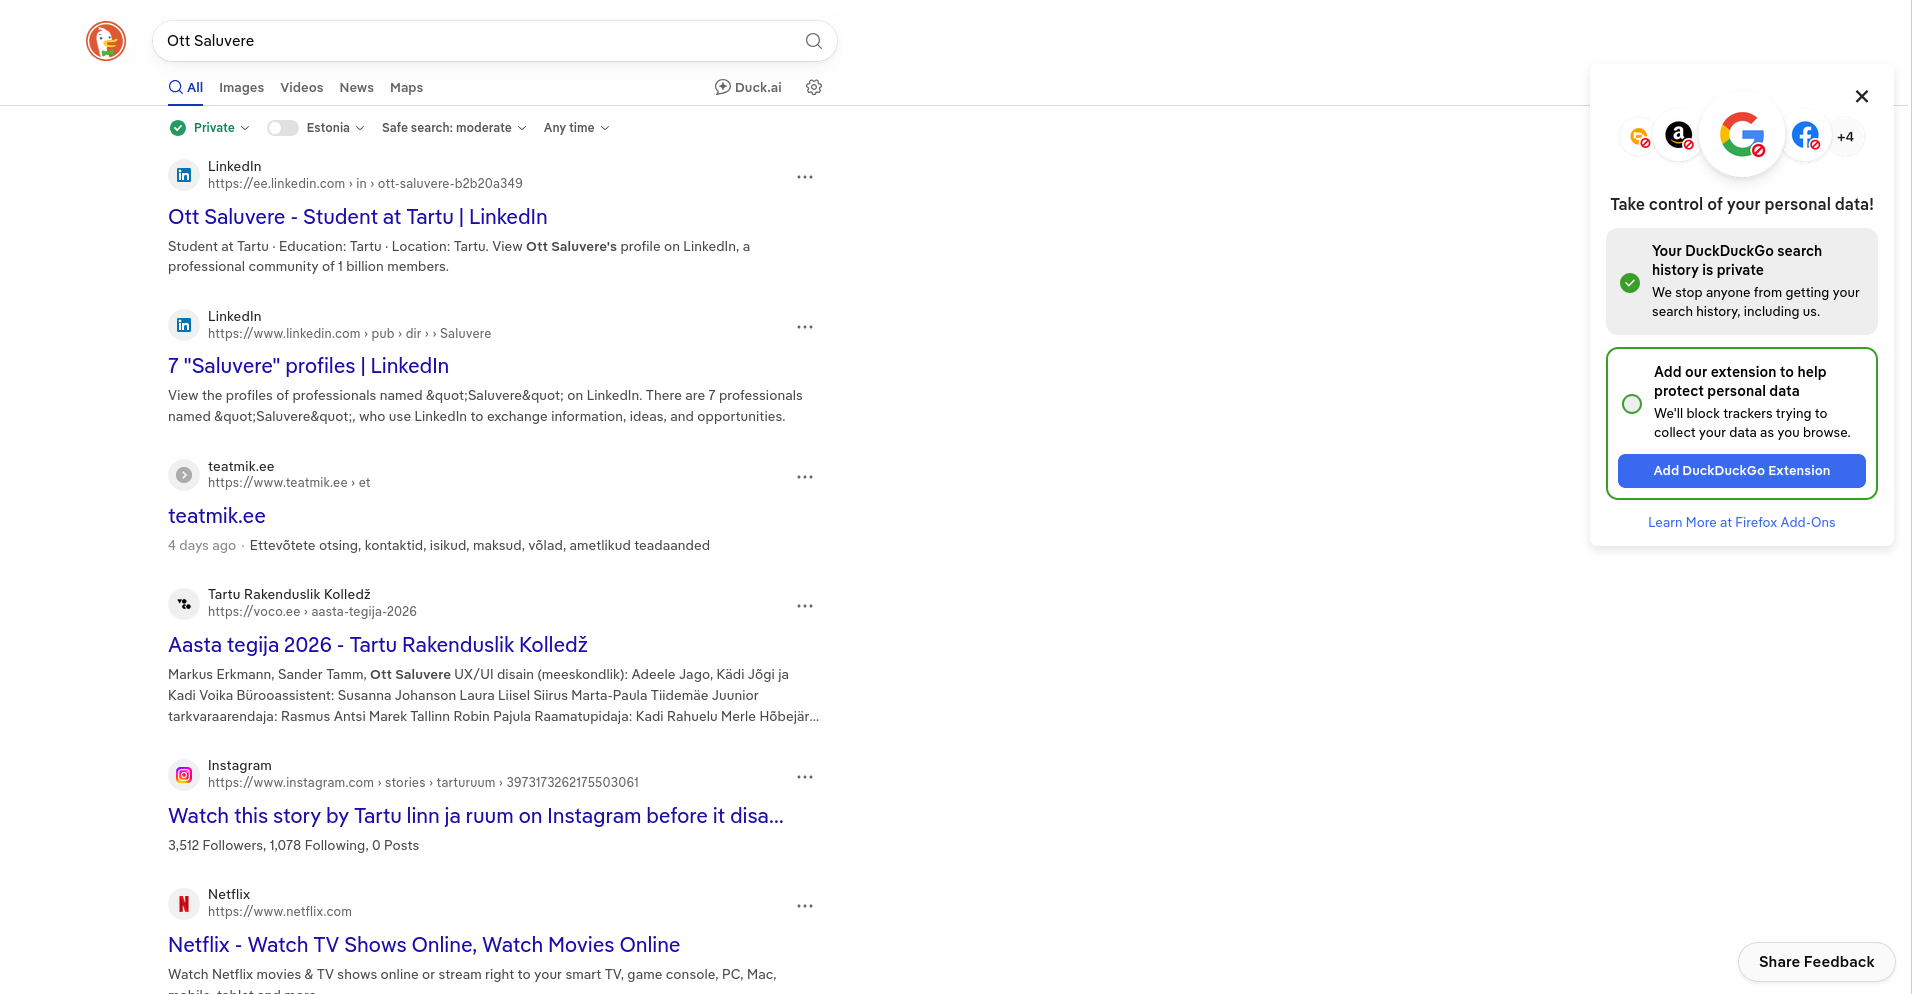
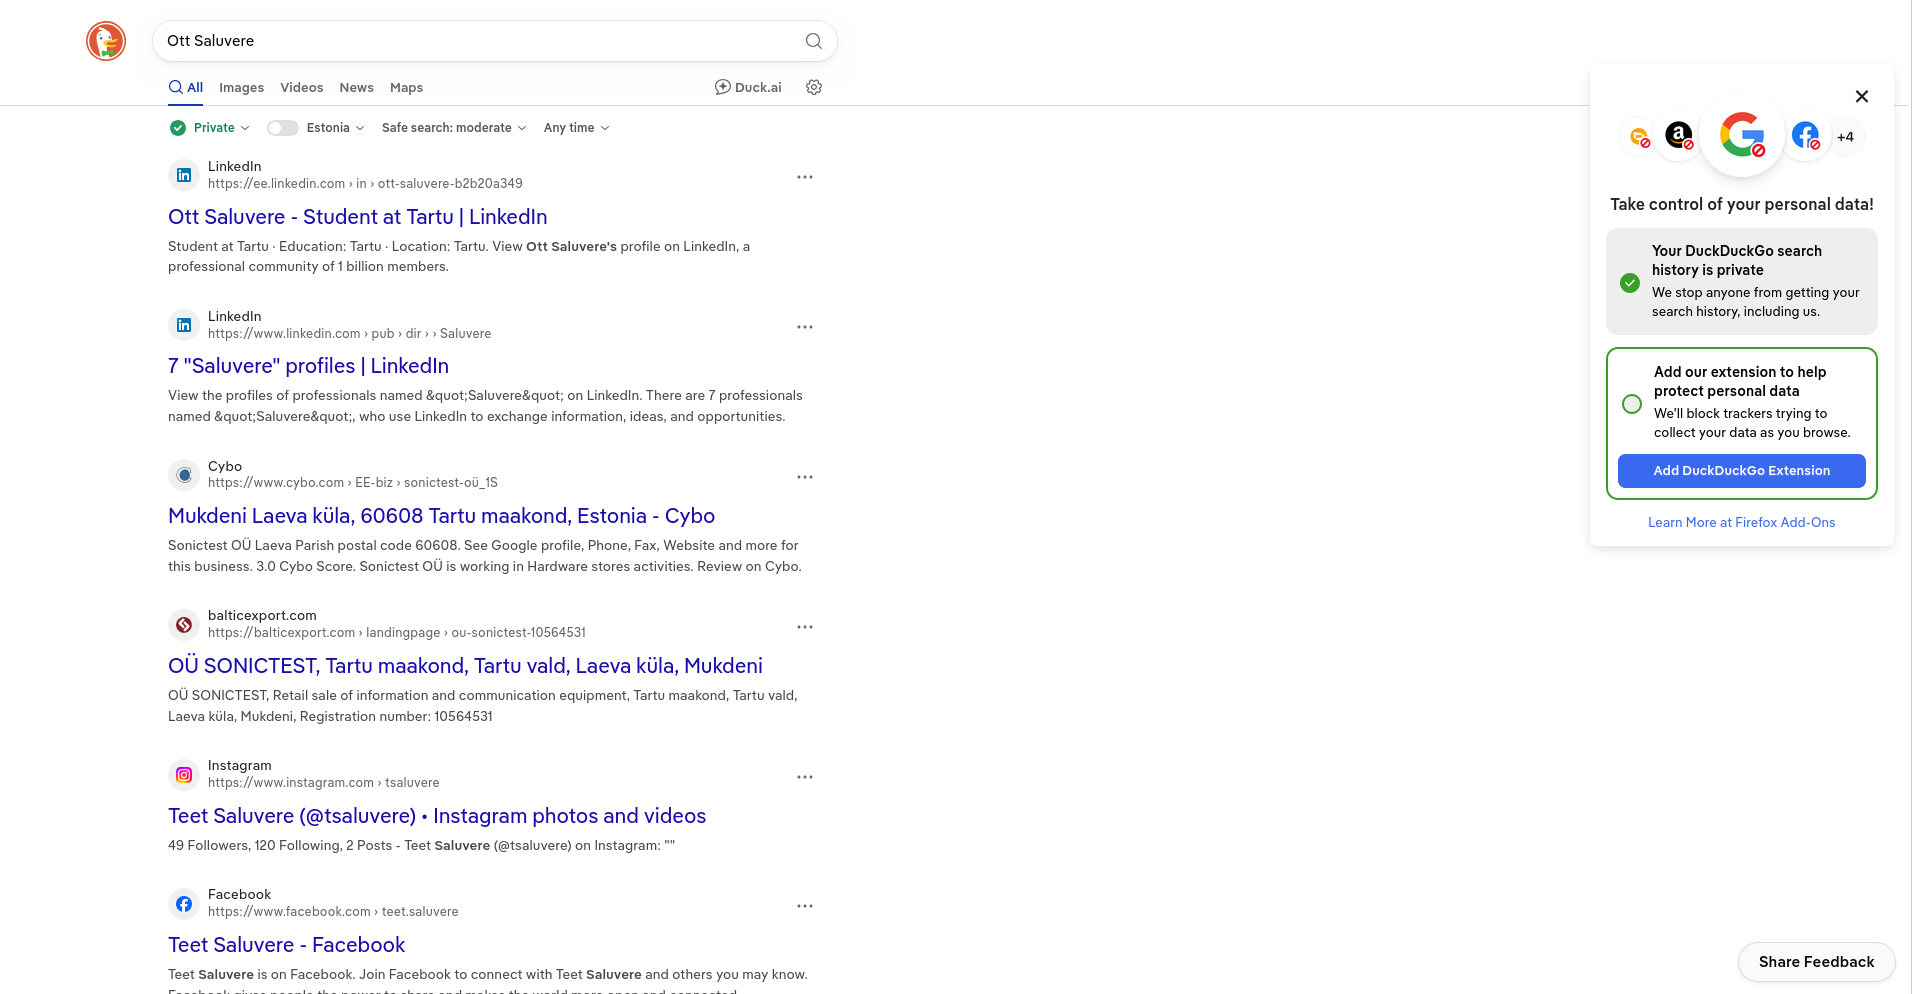
Ülesanne 1: paranda Google'i küpsiseteate sulgemine

Changed region(s): [[0.0938, 0.4678, 0.4062, 0.7485], [0.0938, 0.9044, 0.4062, 1.0], [0.0938, 0.7797, 0.4062, 0.9044]]

diff --git a/task1_google_otsing.py b/task1_google_otsing.py
@@ -92,13 +92,28 @@ def otsi(draiver, url):
     print("Lehe pealkiri:", draiver.title)
 
 
+# Google'i küpsiseteate nuppude id-d ("Nõustu kõigiga" ja "Keeldu kõigist").
+KUPSISENUPUD = [
+    (By.ID, "L2AGLb"),
+    (By.ID, "W0wltc"),
+    (By.XPATH, "//button[contains(., 'Nõustu kõigiga')]"),
+    (By.XPATH, "//button[contains(., 'Accept all')]"),
+]
+
+
 def noustu_kupsistega(draiver):
-    """Klõpsab küpsiste nõusoleku nupul, kui see on lehel olemas."""
-    for tekst in ("Nõustun kõigiga", "Accept all", "Nõustu kõigiga"):
-        nupud = draiver.find_elements(By.XPATH, f"//button[.//div[text()='{tekst}']]")
-        if nupud:
-            nupud[0].click()
-            time.sleep(1)
+    """Sulgeb küpsiste nõusolekuteate, kui see otsingukasti ette jääb.
+
+    Ilma selleta jääb skript Google'i lehel "Enne Google'i avamist" akna taha kinni.
+    """
+    for asukoht in KUPSISENUPUD:
+        for nupp in draiver.find_elements(*asukoht):
+            if not nupp.is_displayed():
+                continue
+            # Tavaline klõps ei pruugi ülekattel mõjuda, seega klõpsame JavaScriptiga.
+            draiver.execute_script("arguments[0].click();", nupp)
+            print("Sulgesin küpsiste nõusolekuteate.")
+            time.sleep(2)
             return
 
 
